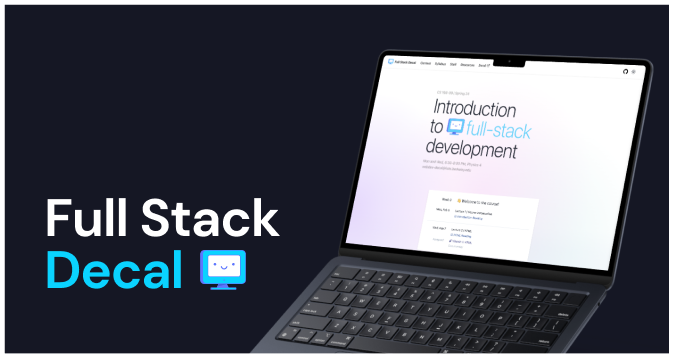
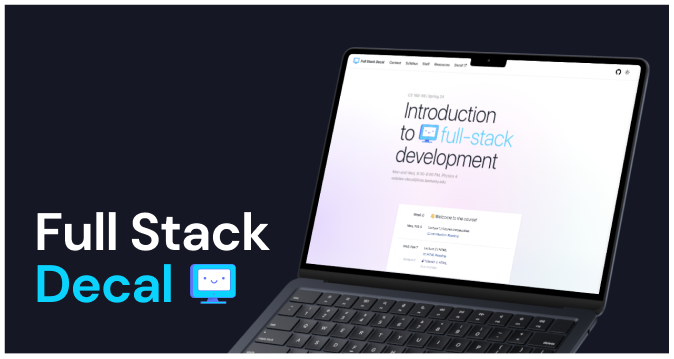
fix type scale and responsiveness

Changed region(s): [[0.0312, 0.1226, 0.997, 1.0], [0.592, 0.2451, 0.7789, 0.5209]]

diff --git a/src/pages/Consumption.vue b/src/pages/Consumption.vue
@@ -11,27 +11,30 @@
                     videos, articles, things that shape my brain
                 </h1>
             </div>
-            <div class="nav-row">
+            <div class="nav">
                 <h3 class="nav-label bold">jump to →</h3>
-                <a
-                    @click.prevent="scrollToSection('booksSection')"
-                    class="nav-item"
-                >
-                    2024 reading list
-                </a>
-                <a
-                    @click.prevent="scrollToSection('videosSection')"
-                    class="nav-item"
-                >
-                    interesting youtube videos
-                </a>
-                <a
-                    @click.prevent="scrollToSection('articlesSection')"
-                    class="nav-item"
-                >
-                    other things
-                </a>
+                <div class="nav-row">
+                    <a
+                        @click.prevent="scrollToSection('booksSection')"
+                        class="nav-item"
+                    >
+                        2024 reading list
+                    </a>
+                    <a
+                        @click.prevent="scrollToSection('videosSection')"
+                        class="nav-item"
+                    >
+                        interesting youtube videos
+                    </a>
+                    <a
+                        @click.prevent="scrollToSection('articlesSection')"
+                        class="nav-item"
+                    >
+                        other things
+                    </a>
+                </div>
             </div>
+
             <Transition name="fade">
                 <div v-if="showBooks">
                     <div

diff --git a/src/style.css b/src/style.css
@@ -41,13 +41,21 @@ h1 {
 h2 {
   font-size: 1.9em;
   margin: 12px 0 0 0;
-  font-weight: 500
+  font-weight: 500;
 }
 
-h3, .bold {
+.bold {
   font-weight: 500;
   font-size: 1.2em;
   margin: 0;
+  /* line-height: 135%; */
+}
+
+h3 {
+  font-weight: 500;
+  font-size: 1.2em;
+  margin: 0;
+  line-height: 135%;
 }
 
 p {
@@ -56,12 +64,16 @@ p {
   font-weight: 400
 }
 
+.spaced {
+  line-height: 160%;
+}
+
 .card {
   padding: 2em;
 }
 
 #app {
-  max-width: 65%;
+  max-width: 1000px;
   margin: 0 auto;
   padding: 4rem 0;
   text-align: left;
@@ -82,14 +94,18 @@ p {
   flex-direction: column;
   align-items: start;
 }
-
-.nav-row {
-  padding: 16px 0px 8px 0px;
-  display: flex;
-  position: sticky;
+.nav {
+  display: flex;  
+  padding: 16px 0px 8px 0px;  
   top: 0px;
+  position: sticky;
   background-color: #121f12;
   width: 100%;
+}
+.nav-row {
+  display: flex;
+  justify-content: space-between;
+  width: 65%;
 }
 .nav-label {
   margin-right: 24px;
@@ -100,7 +116,9 @@ p {
   font-size: 1.2em;
   margin: 0;
   cursor: pointer;
-  margin-right: 24px;
+}
+.section-header {
+  line-height: 120%;
 }
 
 @media (prefers-color-scheme: light) {
@@ -120,6 +138,7 @@ p {
   }
   h1 {
     font-size: 1.8em;
+    line-height: 120%;
   }
   h2 {
     font-size: 1.6em;
@@ -127,11 +146,21 @@ p {
   h3 {
     font-size: 1.1em;
   }  
-  .nav-row {
+  .spaced {
+    line-height: 150%;
+  }
+  .nav {
     flex-direction: column;
     padding-top: 12px;
     padding-bottom: 12px;
-}
-
+    width: 100%;
+  }
+  .nav-row {
+    flex-direction: column;
+    width: 100%;
+  }
+  .nav-item {
+    width: inherit;
+  }
 }
 

diff --git a/src/pages/Landing.vue b/src/pages/Landing.vue
@@ -12,13 +12,13 @@ defineProps({
             <span class="bold">vicky:</span> designer, product person, &
             engineer in new york city
         </h1>
-        <h3>
+        <h3 class="spaced">
             <span class="bold">enthused by: </span> HCI of autonomous systems,
             the ingredients of a delightful consumer product, transportation &
             mobility, aviation, storytelling, engineering youtube videos, the
             pigeons on my window ledge, community building
         </h3>
-        <h3 class="currently">
+        <h3 class="currently spaced">
             <span class="bold">currently: </span> consumer product @ stubhub,
             bringing more folks to more live events
         </h3>

diff --git a/src/components/Foray.vue b/src/components/Foray.vue
@@ -21,6 +21,9 @@ export default {
 </script>
 
 <style scoped>
+p {
+    margin-top: 4px;
+}
 .logo {
     min-height: 150px;
     max-height: 150px;
@@ -31,7 +34,7 @@ export default {
     display: flex;
     flex-direction: row;
     margin-top: 32px;
-    width: 85%;
+    width: 90%;
 }
 .foray-info {
     display: flex;
